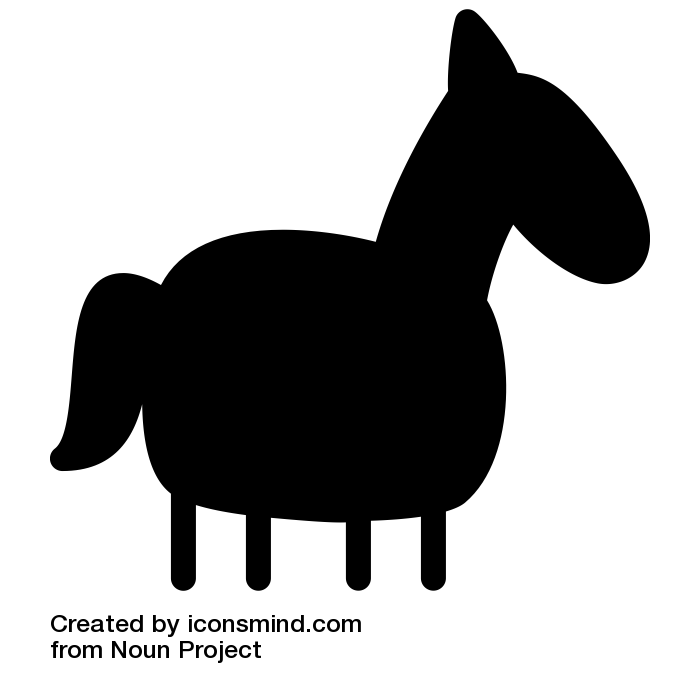
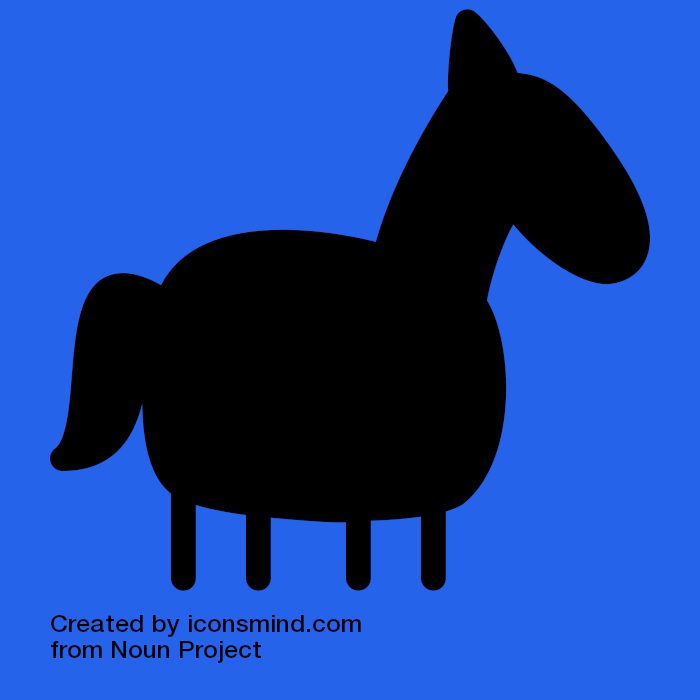
navbar component done. search unfinished

diff --git a/components/navbar.tsx b/components/navbar.tsx
@@ -1,0 +1,98 @@
+import NavbarItem from './navbarItem';
+import MobileMenu from './mobileMenu';
+import AccountMenu from './accountMenu';
+import { BsChevronDown, BsSearch, BsBell } from 'react-icons/bs';
+import { useState, useCallback, useEffect } from 'react';
+
+const TOP_OFFSET = 66;
+
+const Navbar = () => {
+	const [showMobileMenu, setShowMobileMenu] = useState(false);
+	const [showAccountMenu, setShowAccountMenu] = useState(false);
+	const [showBackground, setShowBackground] = useState(false);
+
+	const toggleMobileMenu = useCallback(() => {
+		setShowMobileMenu((current) => !current);
+	}, []);
+	const toggleAccountMenu = useCallback(() => {
+		setShowAccountMenu((current) => !current);
+	}, []);
+
+	useEffect(() => {
+		const handleScroll = () => {
+			if (window.scrollY >= TOP_OFFSET) {
+				setShowBackground(true);
+			} else {
+				setShowBackground(false);
+			}
+		};
+		window.addEventListener('scroll', handleScroll);
+
+		return () => {
+			window.removeEventListener('scroll', handleScroll);
+		};
+	}, []);
+
+	return (
+		<nav className='w-full fixed z-40'>
+			<div
+				className={`px-4 py-6 md:px-16 flex flex-row items-center transition duration-500  ${
+					showBackground ? 'bg-zinc-900 bg-opacity-90' : ''
+				}`}
+			>
+				<img
+					className='h-4 lg:h-7'
+					src='/images/logo.png'
+					alt='netflix logo'
+				/>
+				<div className='flex-row ml-8 gap-7 hidden lg:flex'>
+					<NavbarItem label='Home' />
+					<NavbarItem label='Series' />
+					<NavbarItem label='Films' />
+					<NavbarItem label='New & Popular' />
+					<NavbarItem label='My List' />
+					<NavbarItem label='Browse by languages' />
+				</div>
+				<div
+					onClick={toggleMobileMenu}
+					className='lg:hidden flex flex-row items-center gap-2 ml-8 cursor-pointer relative'
+				>
+					<p className='text-white text-sm'>Browse</p>
+					<BsChevronDown
+						className={`text-white  transition ${
+							showMobileMenu ? 'rotate-180' : 'rotate-0'
+						}`}
+					/>
+					<MobileMenu visible={showMobileMenu} />
+				</div>
+				<div className='flex flex-row ml-auto gap-7 items-center'>
+					<div className='text-gray-200 hover:text-gray-300 cursor-pointer transition'>
+						<BsSearch />
+					</div>
+					<div className='text-gray-200 hover:text-gray-300 cursor-pointer transition'>
+						<BsBell />
+					</div>
+					<div
+						onClick={toggleAccountMenu}
+						className='flex flex-row items-center gap-2 cursor-pointer relative'
+					>
+						<div className='w-6 h-6 lg:w-10 lg:h-10 rounded-md overflow-hidden'>
+							<img
+								src='/images/default-horse.png'
+								alt='profile picture'
+							/>
+						</div>
+						<BsChevronDown
+							className={`text-white transition ${
+								showAccountMenu ? 'rotate-180' : 'rotate-0'
+							}`}
+						/>
+						<AccountMenu visible={showAccountMenu} />
+					</div>
+				</div>
+			</div>
+		</nav>
+	);
+};
+
+export default Navbar;

diff --git a/components/accountMenu.tsx b/components/accountMenu.tsx
@@ -1,0 +1,39 @@
+import { signOut } from 'next-auth/react';
+import React from 'react';
+
+interface AccountMenuProps {
+	visible?: boolean;
+}
+
+const AccountMenu: React.FC<AccountMenuProps> = ({ visible }) => {
+	if (!visible) {
+		return null;
+	}
+
+	//group/item is a way to target multiple things inside a group
+	return (
+		<div className='bg-black w-56 absolute top-14 right-0 py-5 flex-col border-2 border-gray-800 flex'>
+			<div className='flex flex-col gap-3'>
+				<div className='px-3 group/item flex flex-row gap-3 items-center w-full'>
+					<img
+						className='w-8 rounded-md'
+						src='/images/default-horse.png'
+						alt='profile picture'
+					/>
+					<p className='text-white text-sm group-hover/item:underline'>
+						Username
+					</p>
+				</div>
+				<hr className='bg-gray-600 border-0 h-px my-4' />
+				<div
+					onClick={() => signOut()}
+					className='px-3 text-center text-white text-sm hover:underline'
+				>
+					Sign out of Netflix
+				</div>
+			</div>
+		</div>
+	);
+};
+
+export default AccountMenu;

diff --git a/components/mobileMenu.tsx b/components/mobileMenu.tsx
@@ -1,0 +1,38 @@
+import React from 'react';
+
+interface MobileMenuProps {
+	visible?: boolean;
+}
+
+const MobileMenu: React.FC<MobileMenuProps> = ({ visible }) => {
+	if (!visible) {
+		return null;
+	}
+
+	return (
+		<div className='bg-black w-56 absolute top-8 left-0 py-5 flex-col border-2 border-gray-800 flex'>
+			<div className='flex flex-col gap-4'>
+				<div className='px-3 text-center text-white hover:underline'>
+					Home
+				</div>
+				<div className='px-3 text-center text-white hover:underline'>
+					Series
+				</div>
+				<div className='px-3 text-center text-white hover:underline'>
+					Films
+				</div>
+				<div className='px-3 text-center text-white hover:underline'>
+					New & Popular
+				</div>
+				<div className='px-3 text-center text-white hover:underline'>
+					My List
+				</div>
+				<div className='px-3 text-center text-white hover:underline'>
+					Browse by languages
+				</div>
+			</div>
+		</div>
+	);
+};
+
+export default MobileMenu;

diff --git a/pages/index.tsx b/pages/index.tsx
@@ -1,7 +1,6 @@
 import { NextPageContext } from 'next';
-import { getSession, signOut } from 'next-auth/react';
-
-
+import { getSession } from 'next-auth/react';
+import Navbar from '@/components/navbar';
 
 import useCurrentUser from '@/hooks/useCurrentUser';
 
@@ -23,17 +22,9 @@ export async function getServerSideProps(context: NextPageContext) {
 }
 
 export default function Home() {
-	const { data: user } = useCurrentUser();
-
 	return (
 		<>
-			<h1 className='text-2xl text-green-500'>Netflix Clone</h1>
-			<p className='text-white'>
-				Logged in as: {user?.name}, {user?.email}
-			</p>
-			<button className='h-10 w-full bg-white' onClick={() => signOut()}>
-				Logout
-			</button>
+			<Navbar />
 		</>
 	);
 }

diff --git a/pages/profiles.tsx b/pages/profiles.tsx
@@ -36,7 +36,6 @@ const Profiles = () => {
 						<div className='group flex-row w-44 mx-auto'>
 							<div className='w-44 h-44 rounded-md flex items-center justify-center border-2 border-transparent group-hover:cursor-pointer group-hover:border-white overflow-hidden'>
 								<img
-									className='bg-blue-600'
 									src='/images/default-horse.png'
 									alt='Profile image'
 								/>

diff --git a/components/navbarItem.tsx b/components/navbarItem.tsx
@@ -1,0 +1,15 @@
+import React from 'react';
+
+interface NavbarItemProps {
+	label: string;
+}
+
+const NavbarItem: React.FC<NavbarItemProps> = ({ label }) => {
+	return (
+		<div className='text-white cursor-pointer hover:text-gray-300 transition'>
+			{label}
+		</div>
+	);
+};
+
+export default NavbarItem;
